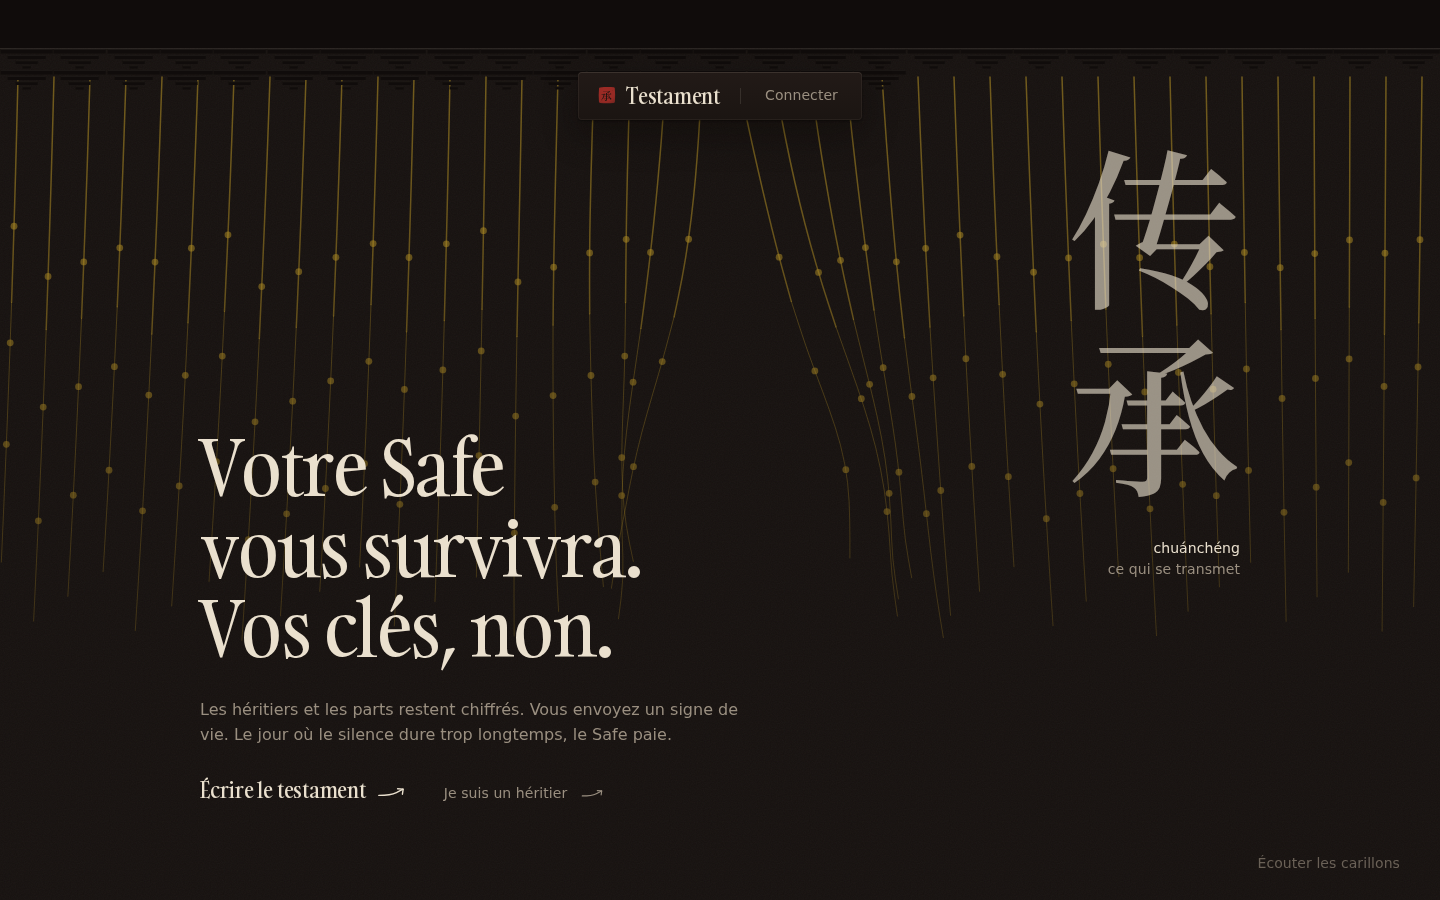
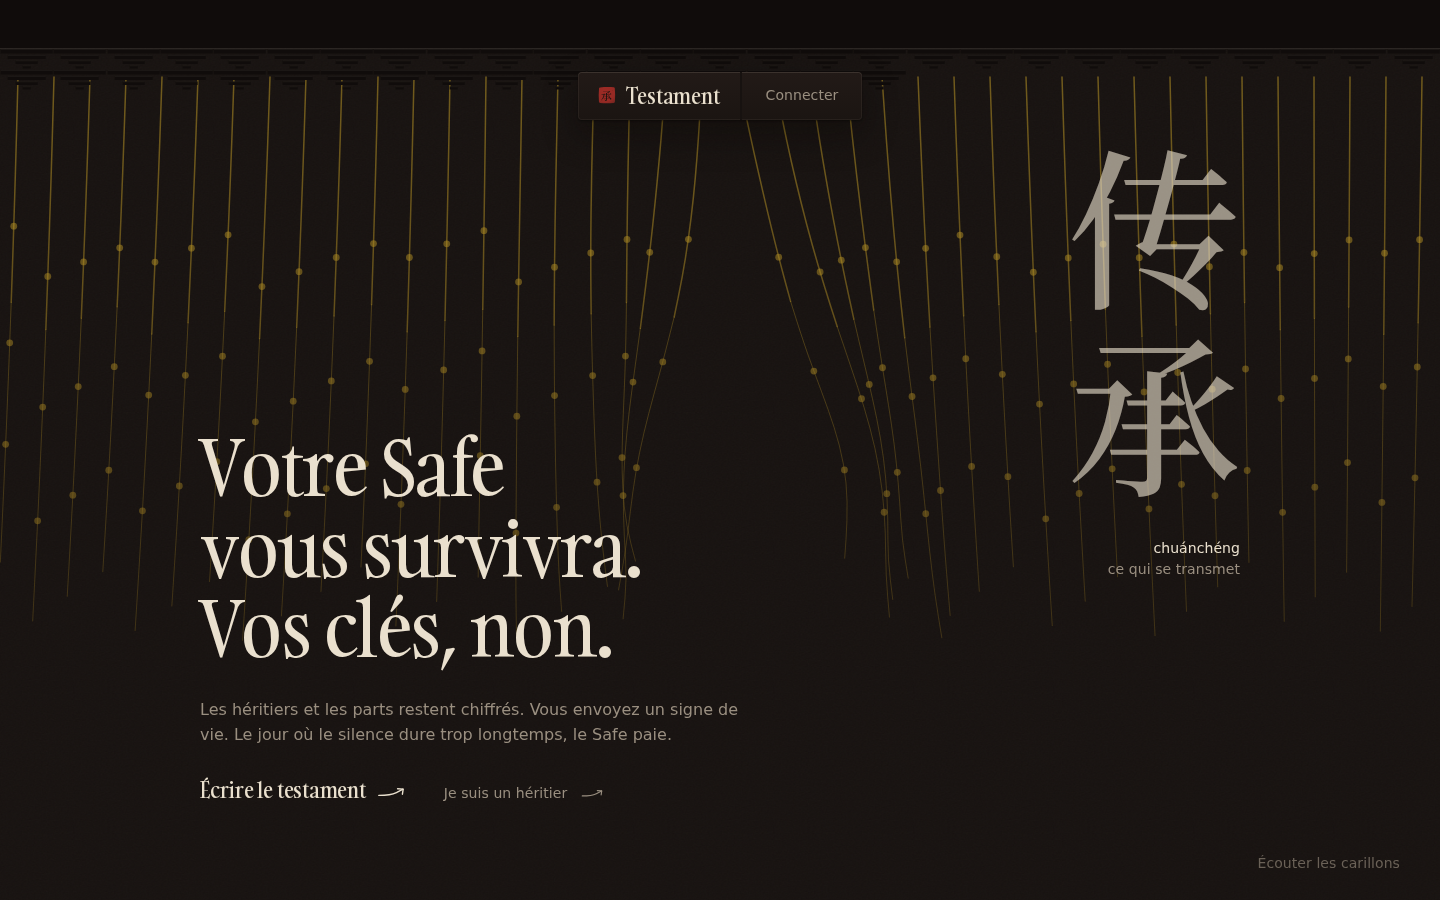
Anti-slop pass, README, and the Sepolia proof
Remove ornamental hairlines from the nav and the write panel; spacing and
the field carry that structure instead. Add a verification pass that
measures seal centring, contrast, and that every control actually
responds, and asserts the page still reads with JavaScript disabled.

diff --git a/packages/web/scripts/verify-ui.ts b/packages/web/scripts/verify-ui.ts
@@ -1,0 +1,253 @@
+import { mkdirSync } from "node:fs";
+import { resolve } from "node:path";
+
+import { chromium, type Page } from "playwright";
+
+/**
+ * The anti-slop verification pass, for the entries a screenshot cannot settle on its own.
+ *
+ * Two things this checks that nothing else does:
+ *
+ * 1. **Centering.** The most repeated execution failure in the design law is content that is
+ *    meant to be centred and is not, SVG text especially, where `text-anchor: middle` handles
+ *    only the horizontal axis. This measures the seal's glyph box against the seal's own box
+ *    and fails on more than a pixel of drift.
+ * 2. **Dead controls.** A control that looks interactive and does nothing is slop and also
+ *    simply broken. Every control is clicked for real and asserted to have responded.
+ *
+ * Run against a production build: bun run verify-ui
+ */
+
+const BASE_URL = process.env.BASE_URL ?? "http://127.0.0.1:3100";
+const OUTPUT_DIR = resolve(import.meta.dirname, "../../../.scratch/verify");
+
+/** Drift tolerated between a glyph's optical centre and its container's. Unit: CSS px. */
+const CENTERING_TOLERANCE_PX = 1.5;
+
+/** Minimum contrast for body text. sourceRef: WCAG 2.1 AA, 1.4.3. */
+const BODY_CONTRAST_FLOOR = 4.5;
+
+const failures: string[] = [];
+
+function check(label: string, passed: boolean, detail: string): void {
+  console.log(`${passed ? "  ok  " : "  FAIL"} ${label}${detail === "" ? "" : ` (${detail})`}`);
+  if (!passed) {
+    failures.push(`${label}: ${detail}`);
+  }
+}
+
+function relativeLuminance(color: [number, number, number]): number {
+  const channels = color.map((channel) => {
+    const normalized = channel / 255;
+    return normalized <= 0.03928 ? normalized / 12.92 : ((normalized + 0.055) / 1.055) ** 2.4;
+  });
+  return 0.2126 * (channels[0] ?? 0) + 0.7152 * (channels[1] ?? 0) + 0.0722 * (channels[2] ?? 0);
+}
+
+function contrastRatio(foreground: [number, number, number], background: [number, number, number]): number {
+  const lighter = Math.max(relativeLuminance(foreground), relativeLuminance(background));
+  const darker = Math.min(relativeLuminance(foreground), relativeLuminance(background));
+  return (lighter + 0.05) / (darker + 0.05);
+}
+
+function parseRgb(value: string): [number, number, number] {
+  const matched = /rgba?\(([^)]+)\)/.exec(value);
+  const parts = (matched?.[1] ?? "0,0,0").split(",").map((part) => Number(part.trim()));
+  return [parts[0] ?? 0, parts[1] ?? 0, parts[2] ?? 0];
+}
+
+mkdirSync(OUTPUT_DIR, { recursive: true });
+
+const browser = await chromium.launch();
+const context = await browser.newContext({
+  viewport: { width: 1440, height: 900 },
+  deviceScaleFactor: 2,
+  locale: "fr-FR",
+});
+const page: Page = await context.newPage();
+
+const consoleErrors: string[] = [];
+page.on("pageerror", (error) => consoleErrors.push(error.message));
+page.on("console", (message) => {
+  if (message.type() === "error") {
+    consoleErrors.push(message.text());
+  }
+});
+
+// ---- Centering: the seal's carved glyph against the seal's own box ------------------
+
+console.log("\ncentering");
+await page.goto(`${BASE_URL}/`, { waitUntil: "networkidle" });
+await page.waitForTimeout(1200);
+
+const sealCentering = await page.evaluate(() => {
+  const seal = document.querySelector('svg[role="img"][aria-label="Sceau de scellement"]');
+  const glyph = seal?.querySelector("text");
+  if (seal === null || seal === undefined || glyph === null || glyph === undefined) {
+    return null;
+  }
+  const sealBox = seal.getBoundingClientRect();
+  const glyphBox = glyph.getBoundingClientRect();
+  return {
+    horizontalDrift: glyphBox.left + glyphBox.width / 2 - (sealBox.left + sealBox.width / 2),
+    verticalDrift: glyphBox.top + glyphBox.height / 2 - (sealBox.top + sealBox.height / 2),
+    sealWidth: sealBox.width,
+  };
+});
+
+if (sealCentering === null) {
+  check("seal glyph measurable", false, "seal or its text node not found");
+} else {
+  // Drift is measured on the rendered size, so express the tolerance in the same units.
+  const scale = sealCentering.sealWidth / 18;
+  check(
+    "seal glyph centred horizontally",
+    Math.abs(sealCentering.horizontalDrift) <= CENTERING_TOLERANCE_PX * scale,
+    `${sealCentering.horizontalDrift.toFixed(2)}px drift`,
+  );
+  check(
+    "seal glyph centred vertically",
+    Math.abs(sealCentering.verticalDrift) <= CENTERING_TOLERANCE_PX * scale,
+    `${sealCentering.verticalDrift.toFixed(2)}px drift`,
+  );
+}
+
+// A large render of the seal, so the centring can also be judged by eye.
+await page.setContent(
+  `<body style="margin:0;background:#171210;display:grid;place-items:center;height:100vh">
+     ${(await page.evaluate(() => document.querySelector('svg[role="img"][aria-label="Sceau de scellement"]')?.outerHTML ?? ""))
+       .replace('width="18"', 'width="360"')
+       .replace(/height="[\d.]+"/, 'height="371"')}
+     <div style="position:fixed;inset:0;pointer-events:none">
+       <div style="position:absolute;left:50%;top:0;bottom:0;width:1px;background:#C9A227"></div>
+       <div style="position:absolute;top:50%;left:0;right:0;height:1px;background:#C9A227"></div>
+     </div>
+   </body>`,
+);
+await page.addStyleTag({
+  content: `@font-face { font-family: "seal-hanzi"; src: url("${BASE_URL}/_next/static/media/placeholder.woff2"); }`,
+});
+await page.waitForTimeout(400);
+await page.screenshot({ path: resolve(OUTPUT_DIR, "seal-centering.png") });
+console.log("  seal-centering.png written (crosshair at the true centre)");
+
+// ---- Contrast: measured on the real render, not from the token sheet ----------------
+
+console.log("\ncontrast");
+await page.goto(`${BASE_URL}/ecrire`, { waitUntil: "networkidle" });
+await page.waitForTimeout(1000);
+
+const contrastSamples = await page.evaluate(() => {
+  const readPair = (selector: string) => {
+    const node = document.querySelector(selector);
+    if (node === null) return null;
+    let backgroundNode: Element | null = node;
+    let background = "rgba(0, 0, 0, 0)";
+    while (backgroundNode !== null) {
+      const candidate = getComputedStyle(backgroundNode).backgroundColor;
+      if (candidate !== "rgba(0, 0, 0, 0)" && candidate !== "transparent") {
+        background = candidate;
+        break;
+      }
+      backgroundNode = backgroundNode.parentElement;
+    }
+    return { color: getComputedStyle(node).color, background };
+  };
+  return {
+    bodyOnPanel: readPair(".lacquer .type-body"),
+    labelOnPanel: readPair(".lacquer .type-label"),
+    heading: readPair("h1.type-display-hero"),
+  };
+});
+
+for (const [label, sample] of Object.entries(contrastSamples)) {
+  if (sample === null) {
+    check(`contrast ${label}`, false, "element not found");
+    continue;
+  }
+  const ratio = contrastRatio(parseRgb(sample.color), parseRgb(sample.background));
+  // The label step is 12px uppercase, so it is body-weight text and takes the body floor.
+  check(`contrast ${label}`, ratio >= BODY_CONTRAST_FLOOR, `${ratio.toFixed(2)}:1`);
+}
+
+// ---- Dead controls: every control is clicked for real -------------------------------
+
+console.log("\ncontrols respond");
+await page.goto(`${BASE_URL}/ecrire`, { waitUntil: "networkidle" });
+await page.waitForTimeout(800);
+
+const rowsBefore = await page.locator("li").filter({ has: page.getByText("Héritier") }).count();
+await page.getByRole("button", { name: "Ajouter un héritier" }).click();
+await page.waitForTimeout(300);
+const rowsAfterAdd = await page.locator("li").filter({ has: page.getByText("Héritier") }).count();
+check("add heir adds a row", rowsAfterAdd === rowsBefore + 1, `${rowsBefore} to ${rowsAfterAdd}`);
+
+await page.getByRole("button", { name: "Retirer" }).last().click();
+await page.waitForTimeout(300);
+const rowsAfterRemove = await page.locator("li").filter({ has: page.getByText("Héritier") }).count();
+check("remove heir removes a row", rowsAfterRemove === rowsBefore, `back to ${rowsAfterRemove}`);
+
+await page.getByLabel("Héritier 1").fill("0x71De5E2141C89F7A6c5260d10D18CbC47fB1a7f2");
+await page.getByLabel("Part").first().fill("60");
+await page.waitForTimeout(200);
+const counterText = (await page.getByText(/attribués sur 100/).textContent()) ?? "";
+check("share counter reacts to input", counterText.includes("60"), counterText.trim());
+
+await page.getByLabel("Héritier 2").fill("0xnope");
+await page.waitForTimeout(200);
+const hasAddressError = await page.getByText("Adresse invalide.").first().isVisible();
+check("invalid address surfaces an error", hasAddressError, "inline error shown");
+
+const soundToggle = page.getByRole("button", { name: /carillons|Couper le son/ });
+const soundLabelBefore = (await soundToggle.textContent()) ?? "";
+await soundToggle.click();
+await page.waitForTimeout(300);
+const soundLabelAfter = (await soundToggle.textContent()) ?? "";
+check("sound toggle changes state", soundLabelBefore !== soundLabelAfter, `${soundLabelBefore.trim()} to ${soundLabelAfter.trim()}`);
+
+// The seal must refuse to fire while the will is invalid, and say why rather than sit dead.
+const sealButton = page.getByRole("button", { name: /Presser le sceau/ });
+check("seal is disabled on an invalid will", await sealButton.isDisabled(), "disabled with a stated reason");
+
+// ---- Focus is visible on every interactive element ----------------------------------
+
+console.log("\nfocus");
+const focusOutline = await page.evaluate(() => {
+  const field = document.querySelector<HTMLInputElement>("input");
+  if (field === null) return null;
+  field.focus();
+  const wrapper = field.closest(".lacquer-well");
+  return wrapper === null ? null : getComputedStyle(wrapper).outlineColor;
+});
+check("focused field shows the brass ring", focusOutline !== null && focusOutline !== "rgba(0, 0, 0, 0)", String(focusOutline));
+
+// ---- Content survives with no JavaScript at all -------------------------------------
+
+console.log("\ncontent is visible by default");
+const noScriptContext = await browser.newContext({
+  viewport: { width: 1440, height: 900 },
+  javaScriptEnabled: false,
+  locale: "fr-FR",
+});
+const noScriptPage = await noScriptContext.newPage();
+await noScriptPage.goto(`${BASE_URL}/`, { waitUntil: "domcontentloaded" });
+const headlineWithoutJs = await noScriptPage.locator("h1").first().innerText();
+check(
+  "headline renders with JavaScript disabled",
+  headlineWithoutJs.includes("Votre Safe"),
+  headlineWithoutJs.replace(/\n/g, " ").slice(0, 48),
+);
+await noScriptPage.screenshot({ path: resolve(OUTPUT_DIR, "no-javascript.png") });
+await noScriptContext.close();
+
+check("no console errors on the pages visited", consoleErrors.length === 0, consoleErrors.slice(0, 2).join(" | "));
+
+await browser.close();
+
+console.log(`\n${failures.length === 0 ? "all checks passed" : `${failures.length} failing`}`);
+if (failures.length > 0) {
+  for (const failure of failures) {
+    console.log(`  - ${failure}`);
+  }
+  process.exit(1);
+}

diff --git a/packages/web/src/components/testament/WritePanel.tsx b/packages/web/src/components/testament/WritePanel.tsx
@@ -198,7 +198,7 @@ export function WritePanel() {
   const isBusy = stage === "encrypting" || stage === "signing" || stage === "confirming";
 
   return (
-    <div className="flex flex-col gap-10">
+    <div className="flex flex-col gap-14">
       <section className="flex flex-col gap-6">
         <div className="flex flex-col gap-2">
           <h2 className="type-display-lg">Les héritiers</h2>
@@ -313,7 +313,7 @@ export function WritePanel() {
         </div>
       </section>
 
-      <section className="flex flex-col gap-6 border-t border-[rgba(234,224,206,0.08)] pt-8">
+      <section className="flex flex-col gap-6 pt-6">
         <SealPress
           onPress={() => void handleSeal()}
           isStamped={stage === "sealed"}
@@ -341,7 +341,7 @@ export function WritePanel() {
       </section>
 
       {stage === "sealed" ? (
-        <section className="flex flex-col gap-4 border-t border-[rgba(234,224,206,0.08)] pt-8">
+        <section className="flex flex-col gap-4 pt-6">
           <h2 className="type-display-lg">Ouvrir le passage</h2>
           <p className="type-body text-ink-muted">
             Le registre ne détient aucun fonds. Pour qu&apos;il puisse faire payer le Safe le

diff --git a/packages/web/src/components/nav/DoorwayNav.tsx b/packages/web/src/components/nav/DoorwayNav.tsx
@@ -25,7 +25,12 @@ export function DoorwayNav() {
           <Seal size={18} />
           <span className="type-title leading-none">Testament</span>
         </Link>
-        <span aria-hidden="true" className="h-4 w-px bg-[rgba(234,224,206,0.12)]" />
+        {/*
+          A cut in the plaque, not a drawn line: the divider is the field showing through,
+          the way a bracket set is separated by shadow. A light hairline here would be an
+          ornamental rule, which is its own tell.
+        */}
+        <span aria-hidden="true" className="-my-2.5 w-0.5 self-stretch bg-field sm:-my-2.5" />
         <WalletControl />
       </nav>
     </header>

diff --git a/packages/web/src/components/testament/TestamentStatus.tsx b/packages/web/src/components/testament/TestamentStatus.tsx
@@ -62,7 +62,7 @@ export function TestamentStatus() {
         </p>
         <Link
           href="/porte"
-          className="type-small text-ink-muted underline-offset-4 transition-colors duration-(--dur-small) ease-(--ease-standard) hover:text-ink"
+          className="type-small text-ink-muted transition-colors duration-(--dur-small) ease-(--ease-standard) hover:text-ink"
         >
           Aller à la porte
         </Link>
